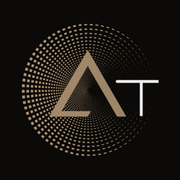
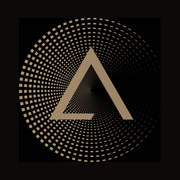
Icono PWA: solo el simbolo del delta (isotipo), sin la T del wordmark

diff --git a/centro-de-mando/web/public/sw.js b/centro-de-mando/web/public/sw.js
@@ -3,7 +3,7 @@
    Estrategia: network-first para navegacion y API (nunca cachear /crm/);
    cache-first para assets hasheados. skipWaiting + clients.claim para que el
    SW nuevo tome control apenas se reabra la app. */
-const CACHE = "atlantis-cm-v22";
+const CACHE = "atlantis-cm-v23";
 
 self.addEventListener("install", (e) => {
   self.skipWaiting();
